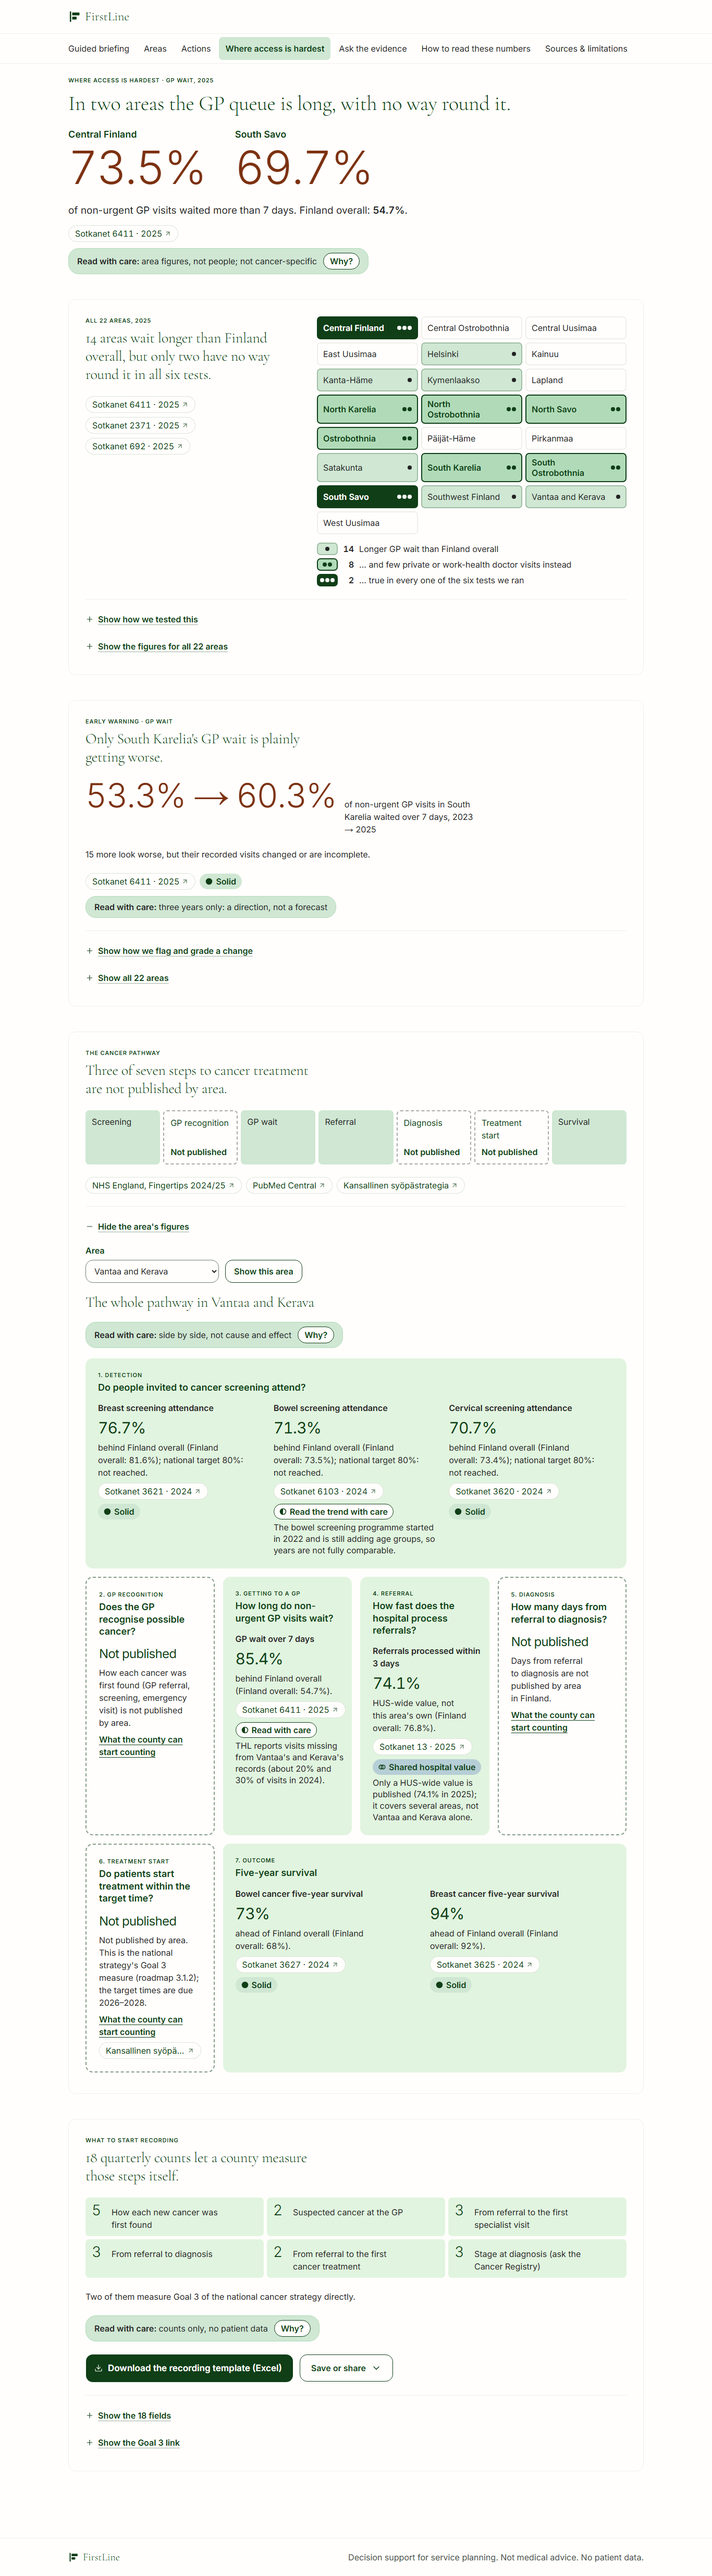
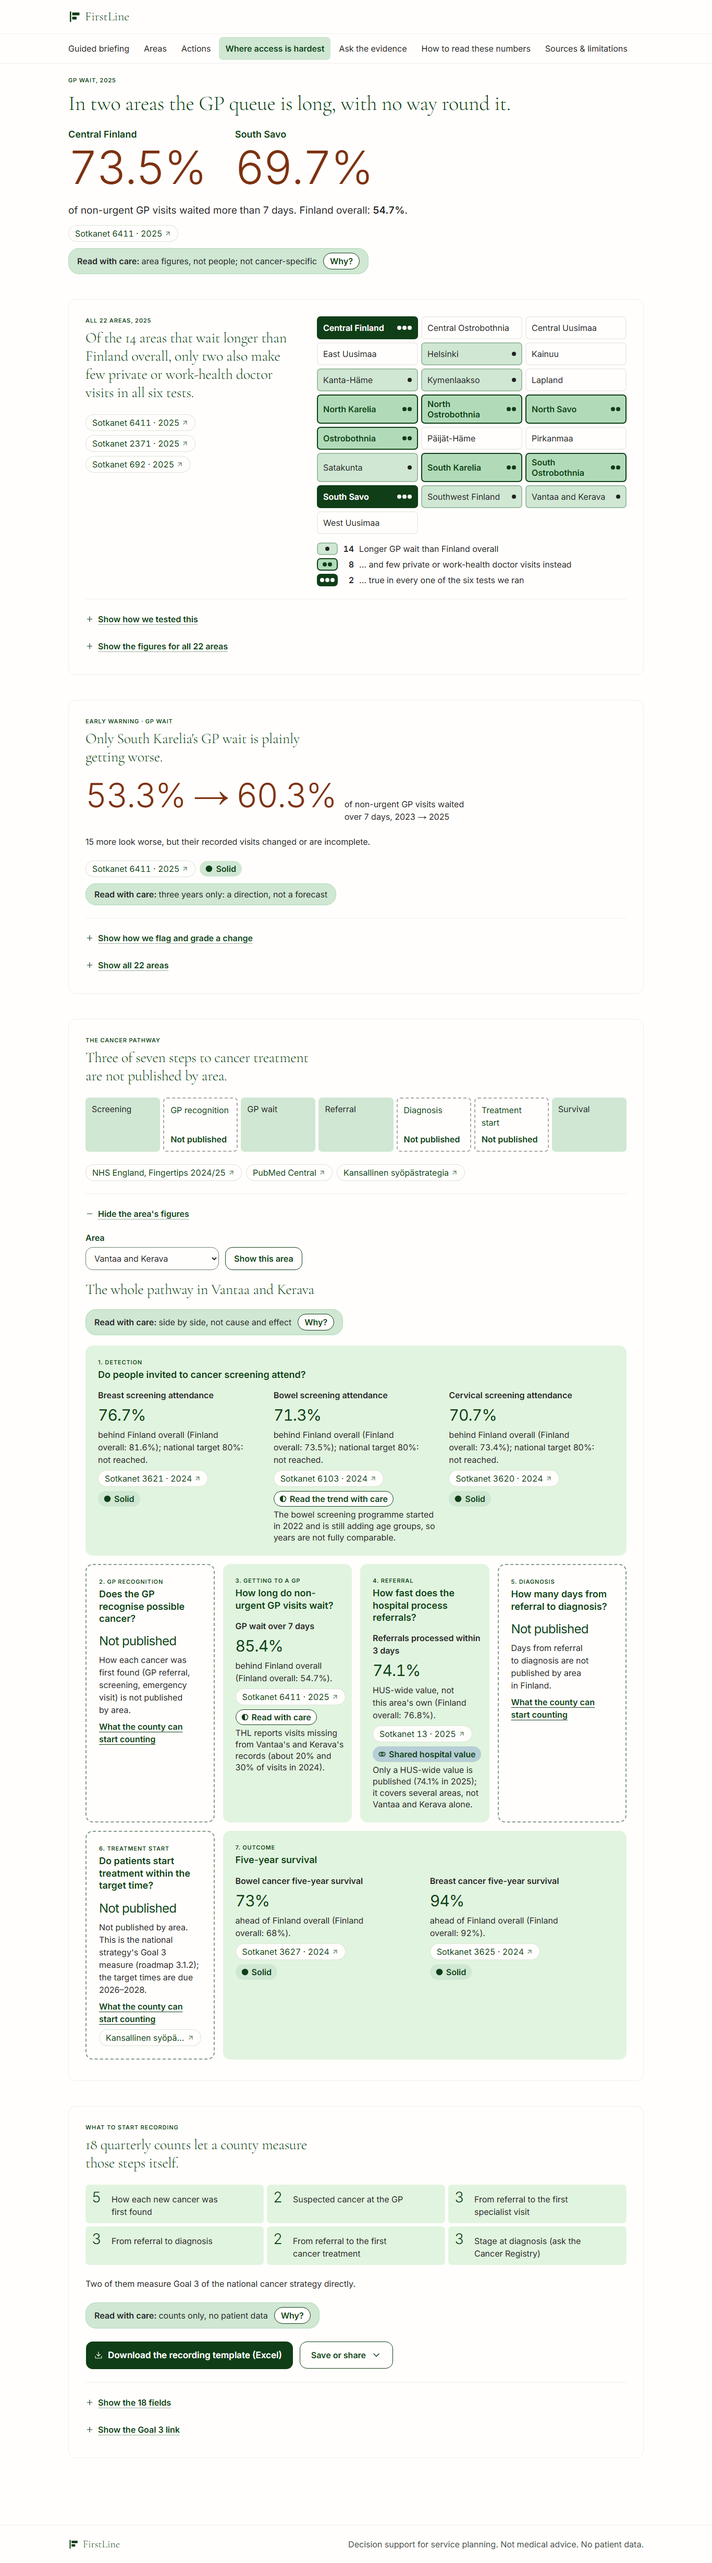
fix(insights): trim repeated wording, read legend counts aloud, refresh notes
- Card 1 title names the narrowing instead of repeating the h1; drop the
  duplicate "Where access is hardest" eyebrow and "in South Karelia".
- The 22-area legend is no longer aria-hidden when it carries the 14/8/2 counts.
- Pointer from the first-build notes to the current rework; rework-2 notes,
  numbers and screenshots match this head (motion, ?area print, Finland scan).

diff --git a/app/insights/page.tsx b/app/insights/page.tsx
@@ -219,7 +219,7 @@ export default function InsightsPage({ searchParams }: PageProps<"/insights">) {
       {/* The finding: one serif statement, the two figures, source and main caveat. */}
       <header className="flex flex-col items-start gap-6 *:max-w-full">
         <Reveal className="flex max-w-[52rem] flex-col gap-3">
-          <p className="type-eyebrow">Where access is hardest · GP wait, {noWayRound.year}</p>
+          <p className="type-eyebrow">GP wait, {noWayRound.year}</p>
           <h1 className="font-display text-[2.5rem] leading-[1.1] font-light text-balance text-forest-ink sm:text-[3.5rem]">
             In {word(robust.length)} areas the GP queue is long, with no way round it.
           </h1>
@@ -259,7 +259,7 @@ export default function InsightsPage({ searchParams }: PageProps<"/insights">) {
       <InsightCard
         id="no-way-round"
         eyebrow={`All ${c.areas} areas, ${noWayRound.year}`}
-        title={`${c.wait_above_finland} areas wait longer than Finland overall, but only ${word(c.long_few_every_test)} have no way round it in all ${word(TESTS)} tests.`}
+        title={`Of the ${c.wait_above_finland} areas that wait longer than Finland overall, only ${word(c.long_few_every_test)} also make few private or work-health doctor visits in all ${word(TESTS)} tests.`}
         visual={<NoWayRoundTiles areas={tiles} counts />}
         split
         source={
@@ -294,7 +294,7 @@ export default function InsightsPage({ searchParams }: PageProps<"/insights">) {
                 <AnimatedNumber value={last.value ?? 0} from={first.value ?? 0} final={formatValue("6411", last.value ?? 0)} level="loud" />
               </span>
               <span className="max-w-[26ch] text-base text-pretty text-foreground">
-                of non-urgent GP visits in {warning.name} waited over 7 days, {first.year} → {last.year}
+                of non-urgent GP visits waited over 7 days, {first.year} → {last.year}
               </span>
             </p>
           }

diff --git a/components/insights/no-way-round-tiles.tsx b/components/insights/no-way-round-tiles.tsx
@@ -79,7 +79,8 @@ export function NoWayRoundTiles({
           );
         })}
       </ul>
-      <ul aria-hidden className="flex flex-col gap-1.5 text-base">
+      {/* Without counts the legend only repeats each box's own screen-reader text; with counts it adds facts, so it is read. */}
+      <ul aria-hidden={counts ? undefined : true} aria-label={counts ? "Legend" : undefined} className="flex flex-col gap-1.5 text-base">
         {([1, 2, 3] as const).map((level) => (
           <li key={level} className="flex items-center gap-2.5">
             <span className={cn("inline-flex h-6 w-10 items-center justify-center rounded-sm border-2", FILL[level])}>

diff --git a/docs/audit/insights/rework-2/notes.md b/docs/audit/insights/rework-2/notes.md
@@ -19,8 +19,8 @@ The judge's `insights-d-full.png` shows the cause. The `ScrollStory` reserved ab
 
 | # | Anchor | Finding (one sentence) | Visual | Always visible | Behind "Show …" |
 |---|---|---|---|---|---|
-| 1 | `#no-way-round` | "14 areas wait longer than Finland overall, but only two have no way round it in all six tests." | The 22-area grid (the "grades grid"). The legend now carries the counts: **14** longer GP wait, **8** and few private or work-health doctor visits, **2** in every one of the six tests. On desktop the grid sits beside the text. | Chips: Sotkanet 6411, 2371 and 692 (2025) | "Show how we tested this" (the six tests), "Show the figures for all 22 areas" (sortable table) |
-| 2 | `#early-warning` | "Only South Karelia's GP wait is plainly getting worse." | 53.3% → 60.3%, "of non-urgent GP visits in South Karelia waited over 7 days, 2023 → 2025"; "15 more look worse, but their recorded visits changed or are incomplete." | Chip 6411 · 2025, the "Solid" grade, caveat "three years only: a direction, not a forecast" | "Show how we flag and grade a change" (the flag rule with its thresholds read from `rules.json`, the recording-change and publisher-gap rules, then the grading rules), "Show all 22 areas" |
+| 1 | `#no-way-round` | "Of the 14 areas that wait longer than Finland overall, only two also make few private or work-health doctor visits in all six tests." | The 22-area grid (the "grades grid"). The legend now carries the counts: **14** longer GP wait, **8** and few private or work-health doctor visits, **2** in every one of the six tests. The legend is read by screen readers when it carries counts. On desktop the grid sits beside the text. | Chips: Sotkanet 6411, 2371 and 692 (2025) | "Show how we tested this" (the six tests), "Show the figures for all 22 areas" (sortable table) |
+| 2 | `#early-warning` | "Only South Karelia's GP wait is plainly getting worse." | 53.3% → 60.3%, "of non-urgent GP visits waited over 7 days, 2023 → 2025"; "15 more look worse, but their recorded visits changed or are incomplete." | Chip 6411 · 2025, the "Solid" grade, caveat "three years only: a direction, not a forecast" | "Show how we flag and grade a change" (the flag rule with its thresholds read from `rules.json`, the recording-change and publisher-gap rules, then the grading rules), "Show all 22 areas" |
 | 3 | `#pathway` | "Three of seven steps to cancer treatment are not published by area." | The seven-step row with the three gaps dashed and labelled "Not published" | One chip per gap, from that step's `data-gaps.json` row: NHS England Fingertips, PubMed Central, Kansallinen syöpästrategia (roadmap) | "Show one area's figures for each step" (picker and `PathwayRow`; opens by itself with `?area=<id>`) |
 | 4 | `#starter-dataset` | "18 quarterly counts let a county measure those steps itself." | The six groups of the template as tiles, each with its count (5, 2, 3, 3, 2, 3); "Two of them measure Goal 3 of the national cancer strategy directly." | Caveat "counts only, no patient data"; the **one primary button**, "Download the recording template (Excel)", with "Save or share" (Print, Email) beside it as an outline button | "Show the 18 fields", "Show the Goal 3 link" |
 
@@ -39,18 +39,18 @@ The count is visible words in `<main>` with every "Show …" closed and screen-r
 
 | | Before | After |
 |---|---|---|
-| Visible words, 1366×768 | 325 | 377 |
-| Page height, 1366×768 | **5,103px** | **3,333px** (−35%) |
-| Page height, 390×844 | 5,204px | 4,862px |
-| With `?area=vantaa-kerava`, 1366 | 6,720px | 4,942px |
-| With `?area=vantaa-kerava`, 390 | 8,953px | 8,620px |
-| Print: words, `<details>` (closed) | 3,302 words, 11 (0) | 3,437 words, 10 (0) |
+| Visible words, 1366×768 | 325 | 375 |
+| Page height, 1366×768 | **5,103px** | **3,309px** (−35%) |
+| Page height, 390×844 | 5,204px | 4,868px |
+| With `?area=vantaa-kerava`, 1366 | 6,720px | 4,918px |
+| With `?area=vantaa-kerava`, 390 | 8,953px | 8,626px |
+| Print: words, `<details>` (closed) | 3,302 words, 11 (0) | 3,434 words, 10 (0); with `?area=vantaa-kerava` 10 (0) |
 | A4 pages (Chromium PDF) | 22 | 20 |
 
-The word count rose by 52. The story's four one-line steps were cut (about 45 words), and these were added:
+The word count rose by 50. The story's four one-line steps and the "Where access is hardest" eyebrow were cut (about 50 words), and these were added:
 - the six group titles of the starter dataset (about 35 words): the starter card's visual, which before was only reachable by opening "Show the 18 fields";
 - three gap source chips on the pathway card: the unpublished steps had no visible source before;
-- two eyebrows, and "in South Karelia" in the early-warning unit line;
+- two card eyebrows, and a card-1 title that names both cut steps (other doctors, six tests) instead of repeating the h1;
 - the legend counts.
 
 The page is a third shorter, and the reader sees each insight's finding, visual and source in one frame.
@@ -69,14 +69,12 @@ Every changed line, and where its fact is now:
 
 | Before | After |
 |---|---|
-| "GP WAIT, 2025" | "Where access is hardest · GP wait, 2025" |
 | "… Finland: 54.7%." | "… Finland overall: 54.7%." |
-| "How the two stand out" / "All 22 areas, 2025." | Card 1's eyebrow "All 22 areas, 2025" and its title |
+| "How the two stand out" / "All 22 areas, 2025." | Card 1's eyebrow "All 22 areas, 2025" and its title "Of the 14 areas that wait longer than Finland overall, only two also make few private or work-health doctor visits in all six tests." |
 | "A longer GP wait than Finland overall (54.7%)." | Legend "14 · Longer GP wait than Finland overall"; 54.7% is in the statement line |
 | "8 of them also use occupational-health and private doctors less than Finland overall." | Legend "8 · … and few private or work-health doctor visits instead", with chips 2371 and 692 |
-| "Only Central Finland and South Savo stay there under all 6 cut-offs we tested." | Title "… only two have no way round it in all six tests"; legend "2 · … true in every one of the six tests we ran"; the two dark tiles carry the names |
+| "Only Central Finland and South Savo stay there under all 6 cut-offs we tested." | Card 1 title "… only two … in all six tests"; legend "2 · … true in every one of the six tests we ran"; the two dark tiles carry the names |
 | TestsTable "with Finland", "Finland 2025: …" and the test labels | "Finland overall" (same values) |
-| "of non-urgent GP visits waited over 7 days, 2023 → 2025" | Same, plus "in South Karelia" |
 | Flag rule "… moved by more than a fifth …" | "… more than 20% …" (from `recording_change_above`), plus the two full rule texts |
 | "Three of seven steps of the cancer pathway are not published by area." | "Three of seven steps to cancer treatment are not published by area." |
 | "18 quarterly counts let a county measure them itself." | "… measure those steps itself." |
@@ -89,12 +87,12 @@ Every changed line, and where its fact is now:
 | 1366×768 and 390×844, with and without `?area=vantaa-kerava` | No sideways scroll, closed or with every "Show …" open (scroll width 1366 / 390). The test and area tables scroll inside their own container. No console errors. |
 | `?area=vantaa-kerava#pathway` | Disclosure open on "The whole pathway in Vantaa and Kerava"; the pathway card scrolls into view |
 | Reduced motion | Complete static page; all screenshots above are taken under it |
-| Motion on | After a slow scroll, no Reveal is left below full opacity |
+| Motion on | After a slow scroll, no Reveal is left below full opacity (1366, and 1366 and 390 with `?area`). Landing on `?area=vantaa-kerava#pathway` without scrolling, the 2,038px (desktop) and 4,503px (390) pathway card is at opacity 1. |
 | No JavaScript | Complete page: the download link is in the HTML, and every "Show …" is a native `<details>`. See "Known limits" for `?area`. |
 | Print | `beforeprint` → all 10 `<details>` open, 0 closed; the picker and Save or share are hidden |
 | Font sizes | Nothing under 16px except the 11px eyebrows, closed or all open |
 | Excel download | Clicking the button downloads `firstline-cancer-pathway-starter-template.xlsx` (9,444 bytes, a valid zip) |
-| Finland wording | Rendered all-open text has no "Finland's level", no "worse than Finland", and no bare "Finland" except in area names and the email subject ("… in Finland") |
+| Finland wording | Print text, plain and with `?area`: no "Finland's level", no "worse than Finland". Every comparison says "Finland overall". The one other "Finland" outside area names is geographic, not a comparison: "Days from referral to diagnosis are not published by area in Finland." (`PathwayRow`). |
 | Contrast | Contract tokens only (charcoal, Forest Ink, muted text and status ink on cream, keylime and mint), all AA per the contract's measured pairs |
 
 ## Known limits

diff --git a/docs/audit/insights/notes.md b/docs/audit/insights/notes.md
@@ -2,6 +2,8 @@
 
 Branch `t3/insights-cancer-access-gaps`. Page: `/insights` ("Where getting to a doctor is hardest, and what to start counting"). Coverage check first: [coverage.md](coverage.md). Component contract: [contract.md](contract.md).
 
+> This records the first build. The page has since been reworked twice: [page-rework/notes.md](page-rework/notes.md) (scroll story) and [rework-2/notes.md](rework-2/notes.md) (one statement and four framed insights, the current page).
+
 ## Headline finding
 
 In Central Finland and South Savo, about 7 in 10 non-urgent GP visits come more than a week after people ask (73.5% and 69.7%; Finland 54.7%, Sotkanet 6411, 2025), and fewer people there use an occupational-health doctor (1,580 and 1,694 visits per 1,000 aged 15–64; Finland 2,049, Sotkanet 2371) or a private doctor (23.5% and 22.3% of residents reimbursed by Kela; Finland 26.9%, Sotkanet 692) than in Finland as a whole. They are the only two areas that stay in this group under all six cut-offs tested, including the 2023 and 2024 figures.
